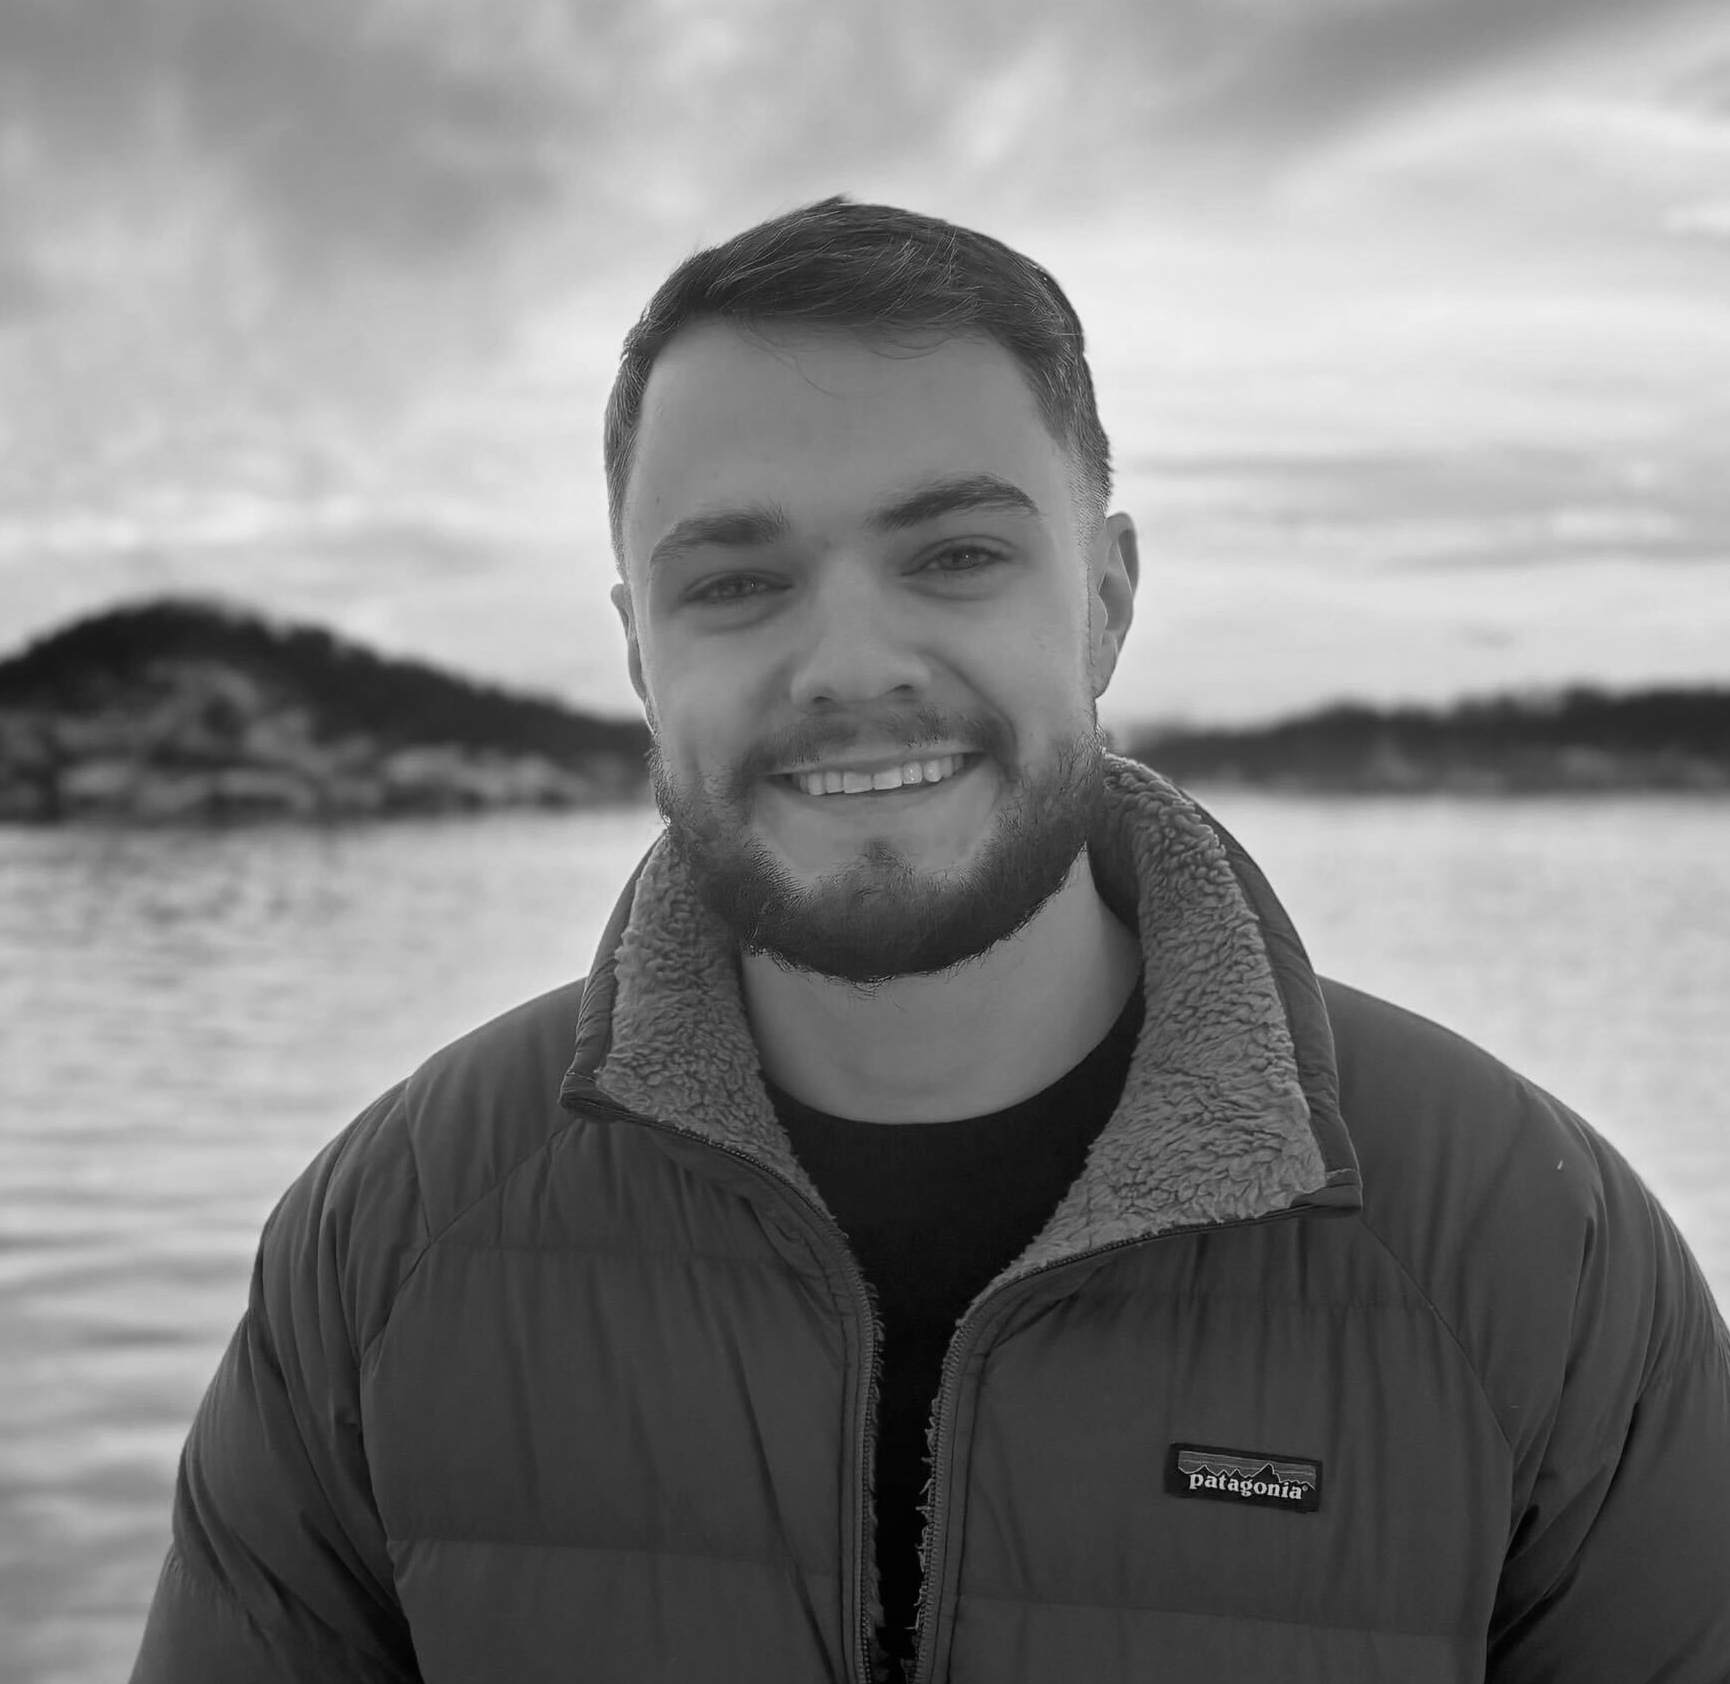
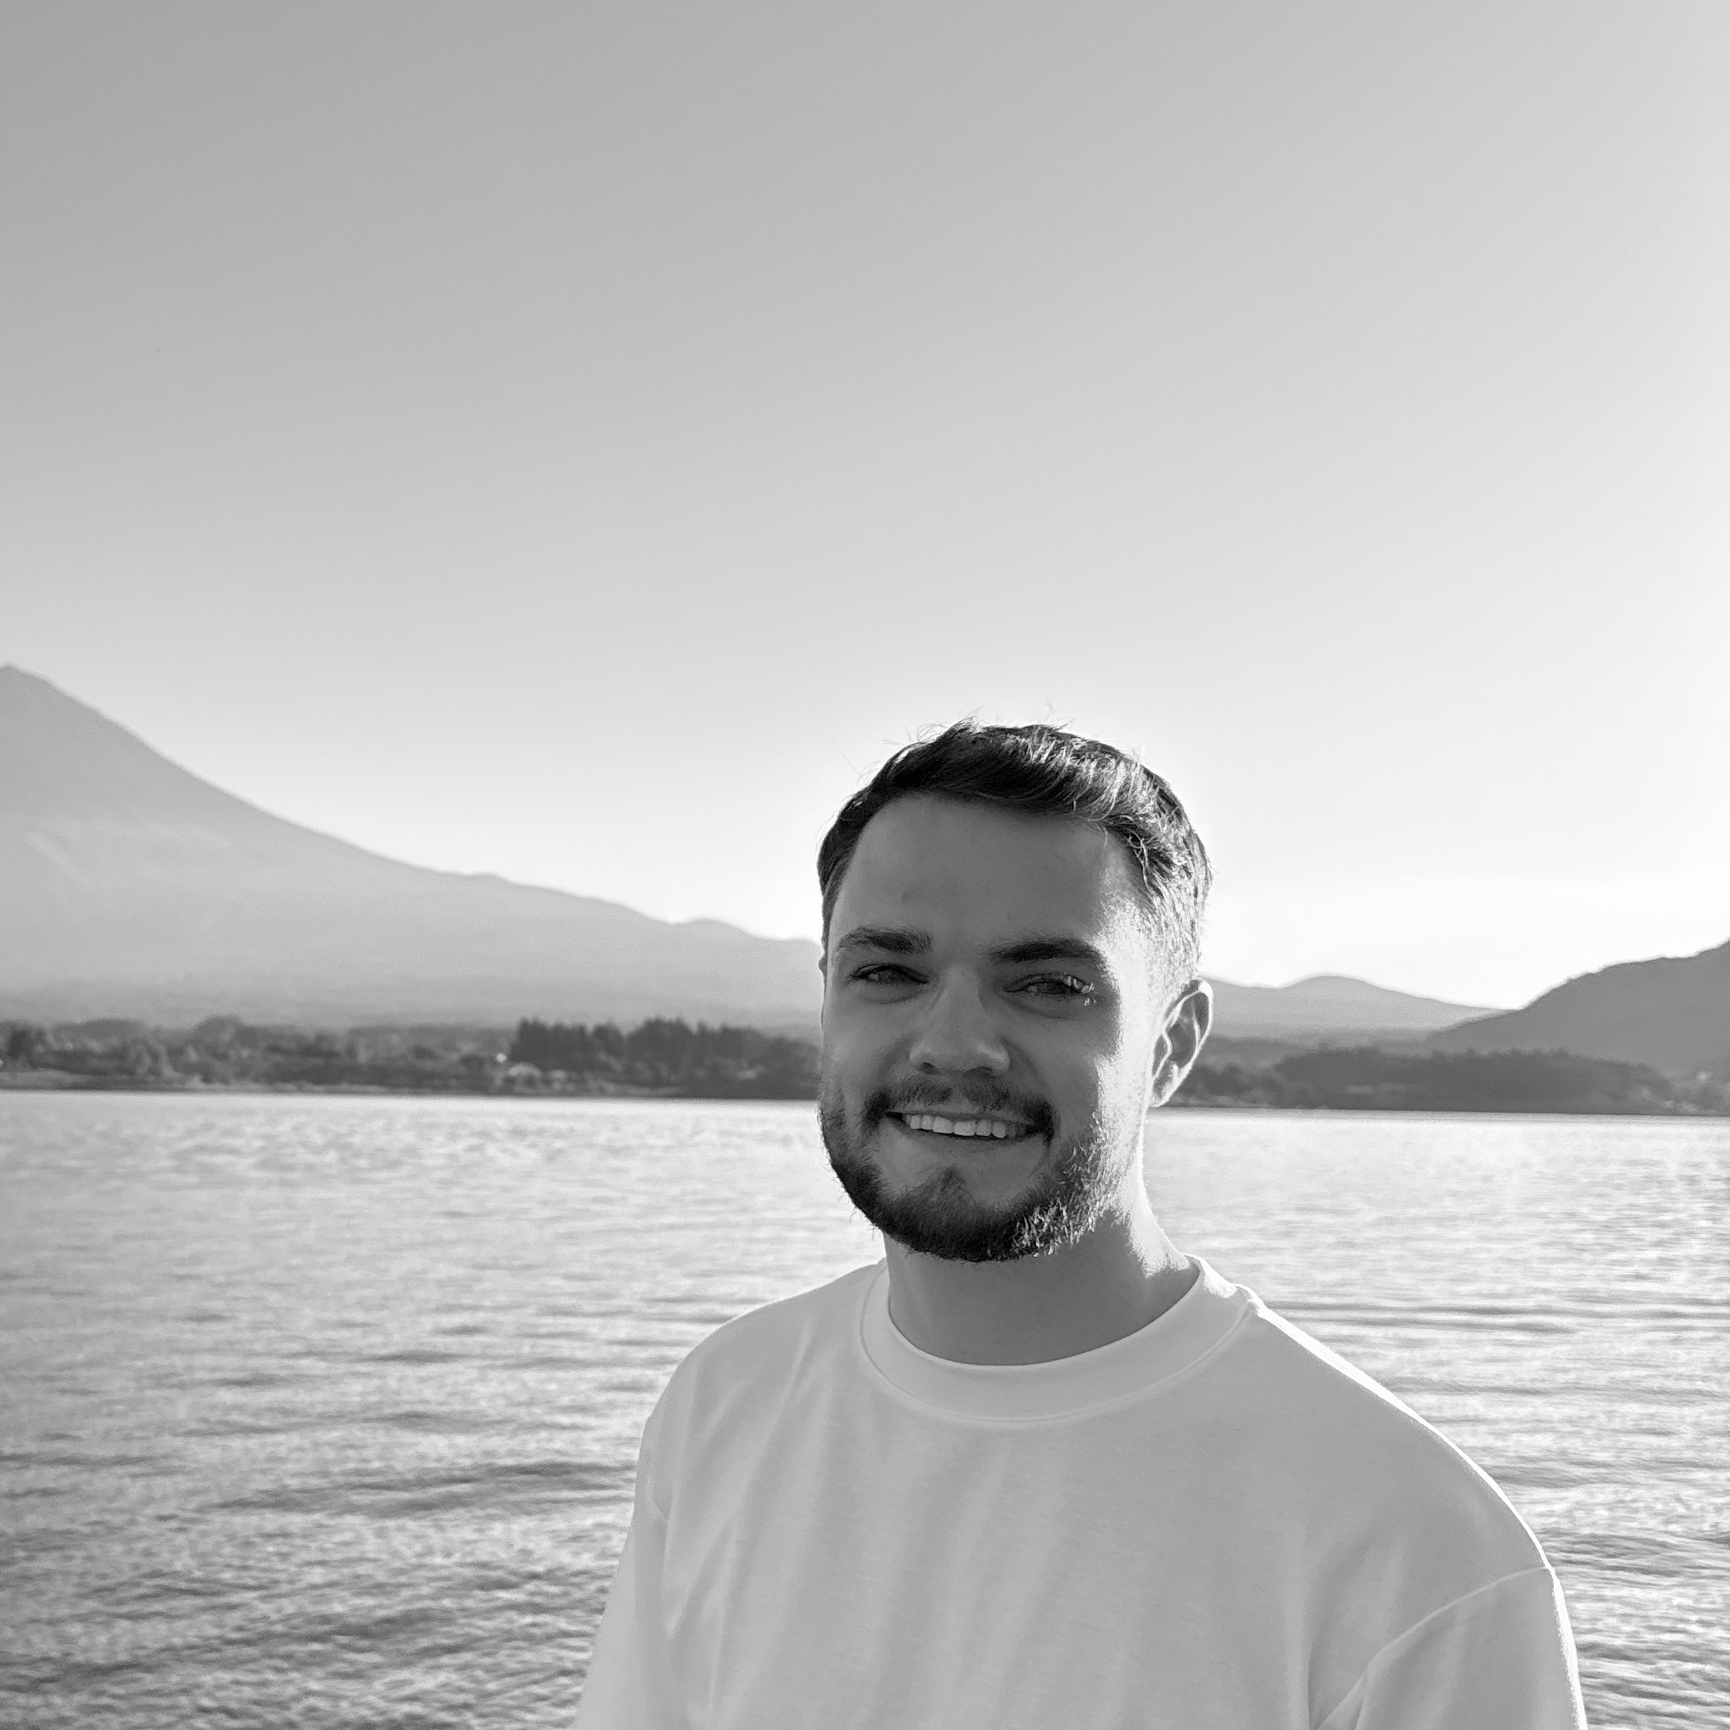
New job + profile pic

diff --git a/src/components/ui/logos/twoCirclesLogo.tsx b/src/components/ui/logos/twoCirclesLogo.tsx
@@ -1,0 +1,20 @@
+const TwoCirclesLogo: React.FC<React.SVGProps<SVGSVGElement> & { width?: number; height?: number }> = ({ width = 40, height = 40, ...props }) => (
+    <svg
+        xmlns="http://www.w3.org/2000/svg"
+        width={width}
+        height={height}
+        viewBox="0 0 40 40"
+        {...props}
+    >
+        <path
+            fill="currentColor"
+            d="M37.1033 39.742C38.4335 36.9571 39.1057 33.9024 39.068 30.8149C39.1106 28.1983 38.6274 25.6 37.647 23.1747C36.6666 20.7494 35.2092 18.5468 33.3616 16.6982C31.5672 14.8046 29.3993 13.3061 26.9958 12.2981C24.5923 11.2901 22.0059 10.7946 19.401 10.8431C16.8242 10.805 14.2688 11.3169 11.9046 12.345C9.54036 13.373 7.42138 14.8936 5.68841 16.8057C3.84502 18.7318 2.3982 21.0031 1.43061 23.4899C0.463008 25.9767 -0.00641316 28.6302 0.0491538 31.2989C0.0189751 34.2168 0.649458 37.1036 1.89314 39.742H7.49216C5.86951 37.224 5.03794 34.2757 5.10503 31.2787C5.10503 26.6583 6.46847 22.8669 9.19533 19.9047C10.4883 18.4654 12.0763 17.3232 13.8505 16.5563C15.6246 15.7894 17.5432 15.4159 19.4747 15.4613C21.4163 15.4136 23.3456 15.7824 25.1335 16.5429C26.9213 17.3034 28.5264 18.4381 29.8413 19.8711C32.6265 22.8603 34.1165 26.8341 33.9852 30.9224C34.055 34.0514 33.2013 37.1314 31.5311 39.7756L37.1033 39.742Z"
+        />
+        <path
+            fill="currentColor"
+            d="M33.3484 2.06373C33.9782 1.41301 34.5672 0.723777 35.1119 0L28.7016 0C26.2948 2.1714 23.1619 3.35668 19.9242 3.32079C16.4542 3.40419 13.0716 2.22446 10.4025 0L3.89825 0C4.48666 0.775927 5.12504 1.51246 5.8093 2.20489C7.61171 4.0793 9.77933 5.56213 12.1775 6.56127C14.5757 7.56041 17.1532 8.05452 19.7498 8.01291C22.3056 8.03063 24.8366 7.51026 27.1791 6.48546C29.5216 5.46066 31.6233 3.95426 33.3484 2.06373Z"
+        />
+    </svg>
+)
+
+export default TwoCirclesLogo

diff --git a/src/components/ui/experienceSection.tsx b/src/components/ui/experienceSection.tsx
@@ -3,6 +3,7 @@ import CinchLogo from './logos/cinchLogo';
 import ThalesLogo from './logos/thalesLogo';
 import OnTheBeachLogo from './logos/onthebeachLogo';
 import CleoLogo from './logos/cleoLogo';
+import TwoCirclesLogo from './logos/twoCirclesLogo';
 import { motion } from 'framer-motion';
 
 interface Experience {
@@ -17,19 +18,18 @@ interface Experience {
     link: string;
 }
 
-// Uncomment and update when starting a new role:
-// {
-//     id: 0,
-//     title: "Job Title",
-//     company: "Company",
-//     logo: ...,
-//     logoWidth: 50,
-//     logoHeight: 20,
-//     period: "2025 - present",
-//     link: "https://...",
-// },
 
 const experiences: Experience[] = [
+    {
+        id: 0,
+        title: "Software Engineer (contract)",
+        company: "Two Circles",
+        logo: TwoCirclesLogo,
+        logoWidth: 22,
+        logoHeight: 22,
+        period: "Apr 2026 - present",
+        link: "https://twocircles.com",
+    },
     {
         id: 1,
         title: "Senior Software Engineer",
